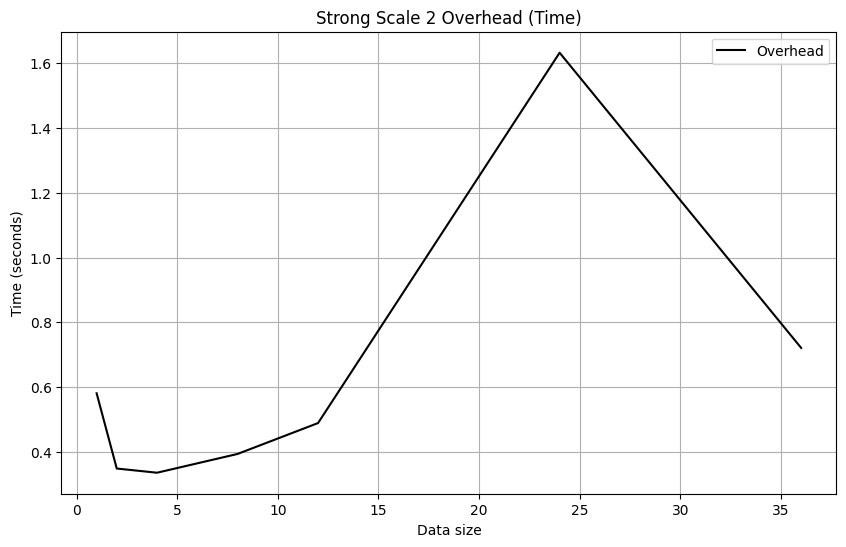
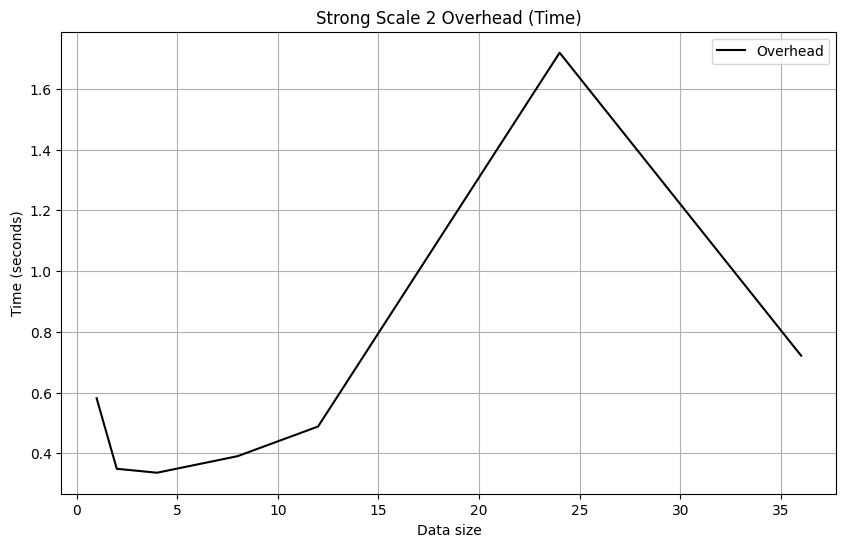
Optimized code and generated better executions and graphs

diff --git a/face.c b/face.c
@@ -20,9 +20,9 @@ size_t threads_per_block = 0;
 size_t NUM_ROWS = 0;
 size_t TEST_NUM_ROWS = 0;
 
-extern void occludedKernelLaunch(double** data, double* test_images, int* occluded_mask_arg, size_t rows, size_t cols, size_t threadsCount);
+extern void occludedKernelLaunch(double** data, double* test_images, int* occluded_mask_arg, size_t start, size_t rows, size_t cols, size_t threadsCount);
 extern void createData(size_t length, size_t cols, size_t test_length);
-extern void createMask(int** data, size_t rows, size_t cols, size_t threadsCount);
+extern void createMask(int** data, size_t start, size_t rows, size_t cols, size_t threadsCount);
 extern void normalizeKernelLaunch(double** data, size_t rows, size_t cols, size_t threadsCount);
 extern void meanCenterKernelLaunch(double** data, double* means, size_t rows, size_t cols, size_t threadsCount);
 extern void norm2KernelLaunch(double** data, double* test, size_t rows, size_t cols, size_t start, size_t threadsCount, double** answer);
@@ -296,8 +296,8 @@ int main(int argc, char *argv[]) {
     }
     MPI_File_open(MPI_COMM_WORLD, "occlusion_recovery.txt", MPI_MODE_CREATE | MPI_MODE_WRONLY, MPI_INFO_NULL, &file);
     for(j = 0; j < TEST_NUM_ROWS; j++){
-        if(myrank == 0 && j == 0){
-            createMask(&occluded_mask, TEST_NUM_ROWS, NUM_COLS, threads_per_block);
+        if(j == 0){
+            createMask(&occluded_mask, myrank * TEST_NUM_ROWS / numranks, TEST_NUM_ROWS / numranks, NUM_COLS, threads_per_block);
             // int count = 0;
             // for(int k = 0; k < TEST_NUM_ROWS * NUM_COLS; k++){
             //     if(occluded_mask[k] == 1){
@@ -305,18 +305,18 @@ int main(int argc, char *argv[]) {
             //     }
             // }
             // printf("Count: %d\n", count);
-            occludedKernelLaunch(&occluded_image, test_images, occluded_mask, TEST_NUM_ROWS, NUM_COLS, threads_per_block);
-            // int count = 0;
-            // for(int k = 0; k < TEST_NUM_ROWS * NUM_COLS; k++){
-            //     printf("%lf\n", occluded_image[k]);
-            //     if(occluded_image[k] == 0.0){
-            //         count++;
+            occludedKernelLaunch(&occluded_image, test_images, occluded_mask, myrank * TEST_NUM_ROWS / numranks, TEST_NUM_ROWS/numranks, NUM_COLS, threads_per_block);
+            MPI_Allgather(occluded_image + (myrank * TEST_NUM_ROWS / numranks * NUM_COLS), TEST_NUM_ROWS / numranks * NUM_COLS, MPI_DOUBLE, occluded_image, TEST_NUM_ROWS / numranks * NUM_COLS, MPI_DOUBLE, MPI_COMM_WORLD);
+            // if(myrank == 0){
+            //     int count = 0;
+            //     for(int k = 0; k < TEST_NUM_ROWS * NUM_COLS; k++){
+            //         printf("%lf\n", occluded_image[k]);
+            //         if(occluded_image[k] == 0.0){
+            //             count++;
+            //         }
             //     }
+            //     printf("Count: %d\n", count);
             // }
-            // printf("Count: %d\n", count);
-        }
-        if(j == 0){
-            MPI_Bcast(occluded_image, TEST_NUM_ROWS * NUM_COLS, MPI_DOUBLE, 0, MPI_COMM_WORLD);
         }
         index = matchImage(train_images, occluded_image, rows_per_rank, j*NUM_COLS);
 
